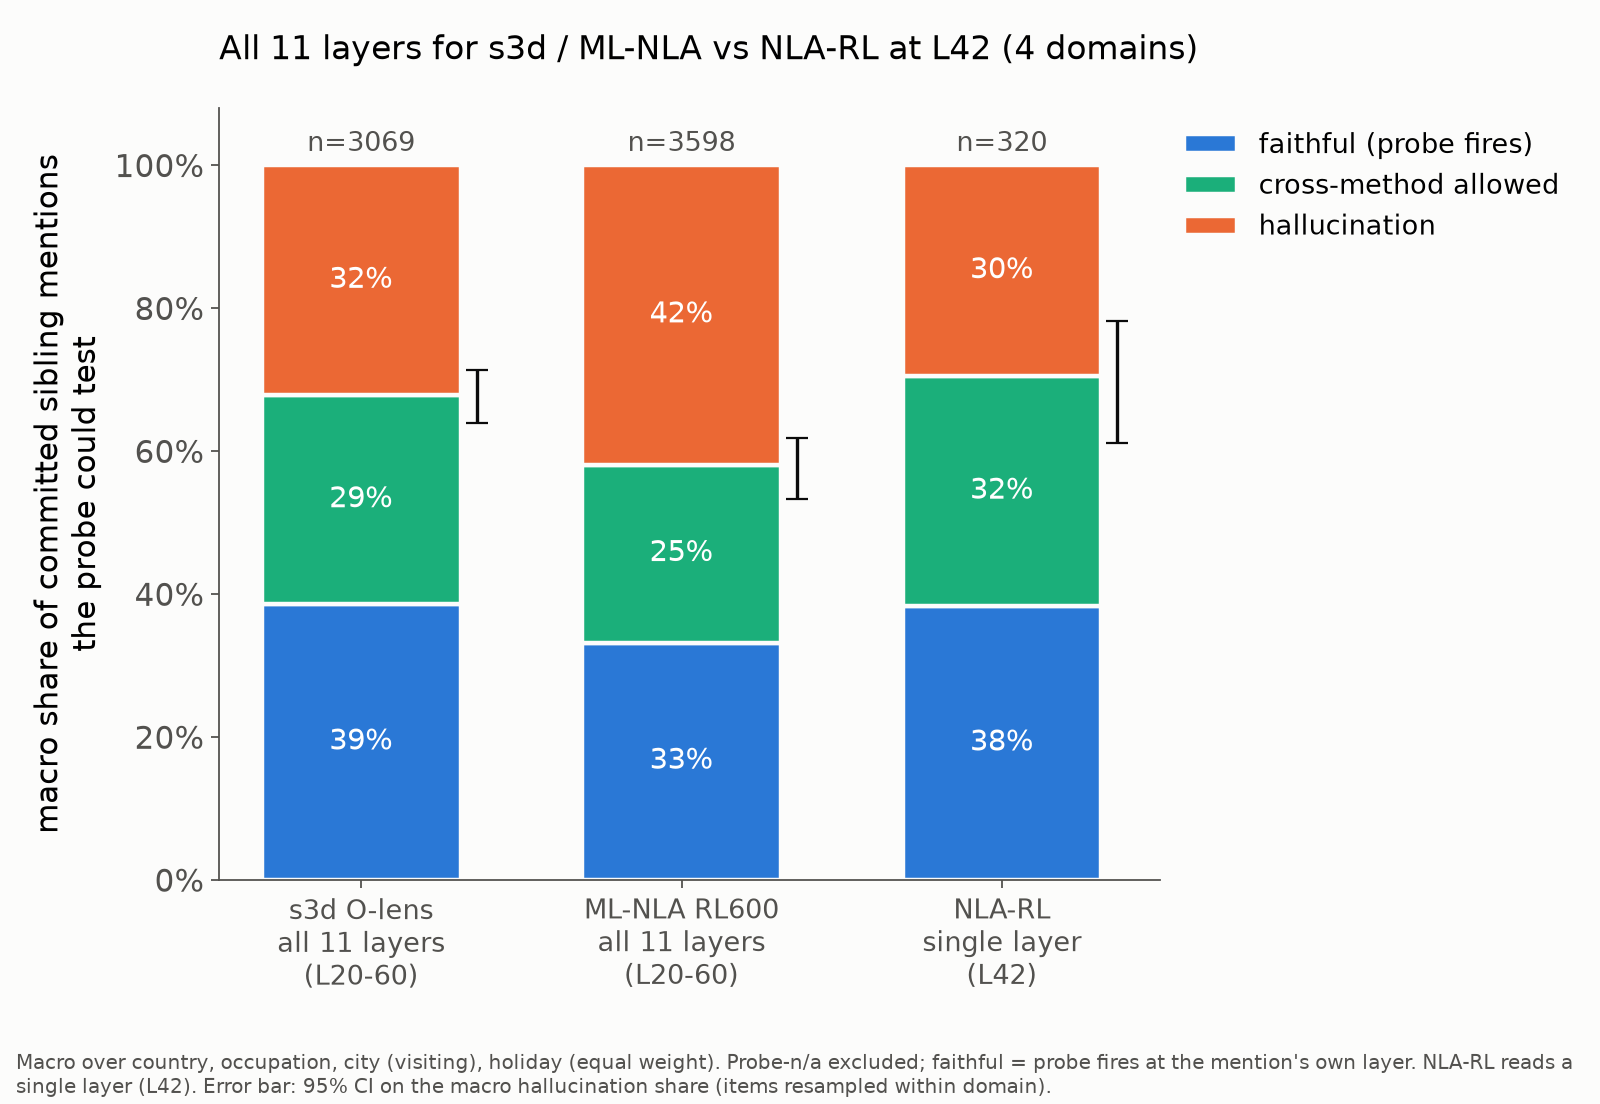
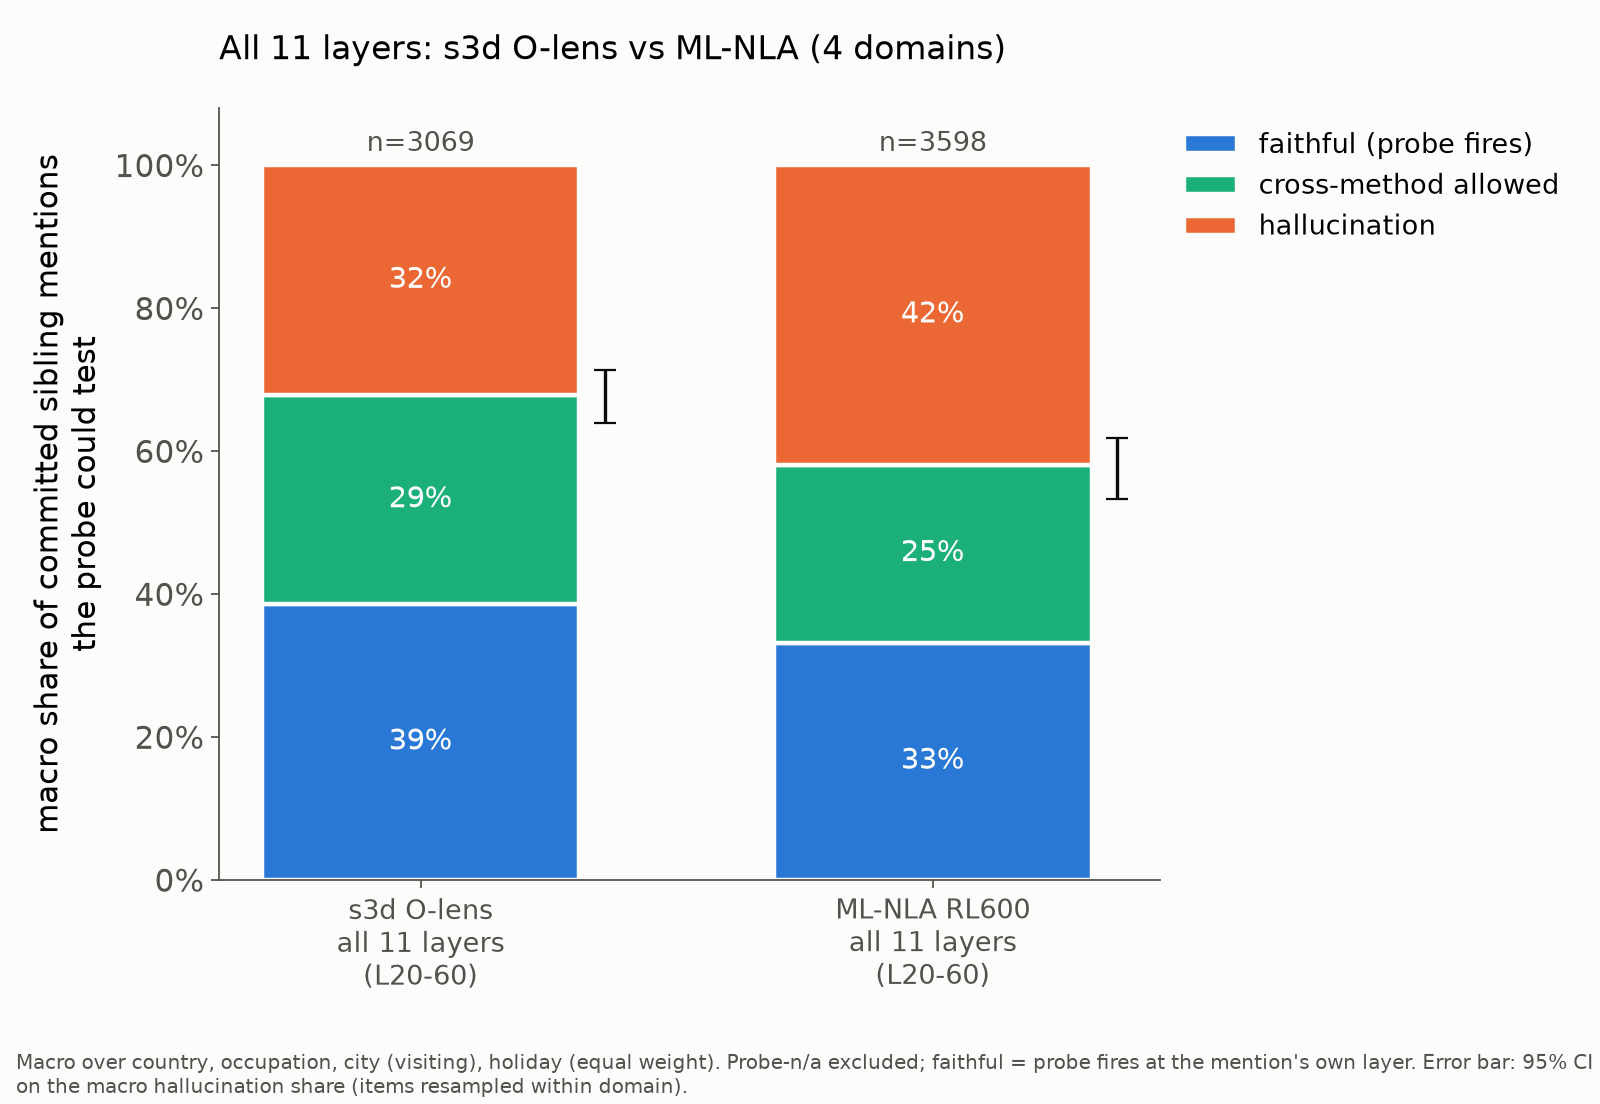
All-layer macro plot: NLA-RL excluded

diff --git a/scripts/sibling_probe/um_plot_macro_layers.py b/scripts/sibling_probe/um_plot_macro_layers.py
@@ -3,7 +3,7 @@ the s3d O-lens and ML-NLA read 11 (L20..60), so the all-layer bars are not like 
 
 * um_macro_single_layer.png: s3d / ML-NLA at ONE layer (default L44, the grid layer nearest
   NLA-RL's L42; there is no L42 readout for them) vs NLA-RL at L42;
-* um_macro_all_layers.png: s3d / ML-NLA pooled over all 11 layers vs NLA-RL at L42;
+* um_macro_all_layers.png: s3d / ML-NLA pooled over all 11 layers (NLA-RL excluded);
 * um_macro_by_layer.png: the macro hallucination share at each layer for s3d / ML-NLA, with
   NLA-RL as one point at L42.
 
@@ -102,9 +102,10 @@ def tick(m: str, name: str, layers: tuple[int, ...]) -> str:
     return f"{name}\nall {len(layers)} layers\n(L{layers[0]}-{layers[-1]})"
 
 
-def bars(layers: tuple[int, ...], out_name: str, title: str) -> None:
+def bars(layers: tuple[int, ...], out_name: str, title: str, methods: list | None = None) -> None:
+    methods = methods or METHODS
     fig, ax = plt.subplots(figsize=(10, 6.9))
-    for x, (m, _name) in enumerate(METHODS):
+    for x, (m, _name) in enumerate(methods):
         u = units(m, layers)
         shares = {key: macro(u, key) for key, _, _ in CATS}
         bottom = 0.0
@@ -147,13 +148,18 @@ def bars(layers: tuple[int, ...], out_name: str, title: str) -> None:
             f"{out_name:28s} {m:12s} faithful {shares['faithful']:.2f} cross "
             f"{shares['cross']:.2f} hall {h:.2f} [{lo:.2f}, {hi:.2f}] n={n}"
         )
-    ax.set_xticks(range(len(METHODS)), [tick(m, nm, layers) for m, nm in METHODS], fontsize=12)
+    ax.set_xticks(range(len(methods)), [tick(m, nm, layers) for m, nm in methods], fontsize=12)
     ax.set_ylim(0, 1.08)
     ax.yaxis.set_major_formatter(matplotlib.ticker.PercentFormatter(1.0))
     ax.set_ylabel("macro share of committed sibling mentions\nthe probe could test")
     ax.set_title(title, loc="left", fontsize=15, pad=22)
     ax.legend(loc="upper left", bbox_to_anchor=(1.0, 1.0), frameon=False, fontsize=12)
-    fig.text(0.01, 0.01, FOOT, fontsize=9, color="#52514e", wrap=True)
+    foot = (
+        FOOT
+        if any(m == "nla-rl-L42" for m, _ in methods)
+        else FOOT.replace(" NLA-RL reads a single layer (L42).", "")
+    )
+    fig.text(0.01, 0.01, foot, fontsize=9, color="#52514e", wrap=True)
     fig.tight_layout(rect=(0, 0.07, 1, 1))
     fig.savefig(PLOTS / out_name, dpi=160)
     plt.close(fig)
@@ -255,7 +261,8 @@ def main() -> None:
     bars(
         GRID,
         "um_macro_all_layers.png",
-        "All 11 layers for s3d / ML-NLA vs NLA-RL at L42 (4 domains)",
+        "All 11 layers: s3d O-lens vs ML-NLA (4 domains)",
+        methods=METHODS[:2],  # NLA-RL (single layer) excluded from the all-layer plot
     )
     per_layer()
 
